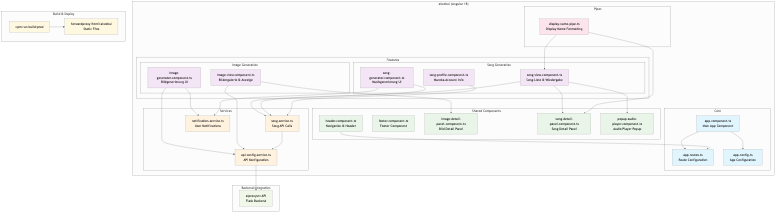
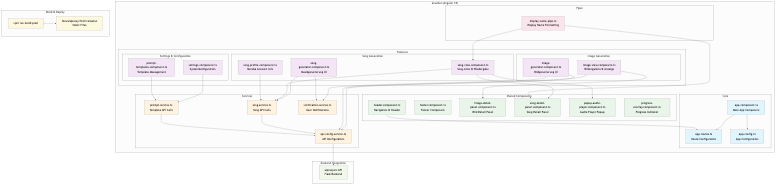
settings implementing

diff --git a/docs/README.md b/docs/README.md
@@ -30,8 +30,10 @@
    - [8.2 Image API](#82-image-api-apiv1image)
    - [8.3 Song API](#83-song-api-apiv1song)
    - [8.4 Task Management API](#84-task-management-api-apiv1songtask)
-   - [8.5 Redis Management API](#85-redis-management-api-apiv1redis)
-   - [8.6 AI Test Mock API](#86-ai-test-mock-api-aitestmock---developmenttesting)
+   - [8.5 Chat API](#85-chat-api-apiv1ollamachat)
+   - [8.6 Prompt Templates API](#86-prompt-templates-api-apiv1prompts)
+   - [8.7 Redis Management API](#87-redis-management-api-apiv1redis)
+   - [8.8 AI Test Mock API](#88-ai-test-mock-api-aitestmock---developmenttesting)
 9. [Deployment-Grafik](#9-deployment-grafik)
    - [9.1 Entwicklungs-Deployment](#91-entwicklungs-deployment)
    - [9.2 Produktions-Deployment](#92-produktions-deployment)
@@ -133,7 +135,7 @@ Das Mac KI-Service System ist eine persönliche KI-basierte Multimedia-Generieru
 - **Containerisiert**: Docker für konsistente Deployments
 
 ### 4.2 Technologie-Stack
-- **Frontend**: Angular 18 + TypeScript + Angular Material
+- **Frontend**: Angular 18.2.13 + TypeScript + Angular Material + SCSS
 - **Backend**: Python Flask + SQLAlchemy + Alembic
 - **Async Processing**: Celery + Redis
 - **Database**: PostgreSQL 15
@@ -165,7 +167,10 @@ Das Mac KI-Service System ist eine persönliche KI-basierte Multimedia-Generieru
   - `song-generator`: UI für Musikgenerierung
   - `song-view`: Anzeige generierter Songs
   - `song-profil`: Mureka Account-Informationen
-- **Services**: API-Integration, Konfiguration
+  - `settings`: Systemkonfiguration und Einstellungen
+  - `prompt-templates`: Template-Management für Prompts
+- **Services**: API-Integration, Konfiguration, Prompt-Management, Notifications
+- **Shared Components**: Header, Footer, Detail-Panels, Audio-Player, Progress-Overlay
 - **Build**: `npm run build:prod` → Deployment nach `forwardproxy/html`
 
 #### 5.2.2 aiproxysrv (Backend API)
@@ -174,6 +179,12 @@ Das Mac KI-Service System ist eine persönliche KI-basierte Multimedia-Generieru
   ```
   src/
   ├── api/           # Controllers & Routes
+  │   ├── app.py     # Flask App Factory
+  │   ├── image_routes.py    # Bildgenerierung API
+  │   ├── song_routes.py     # Musikgenerierung API
+  │   ├── chat_routes.py     # Chat API
+  │   ├── prompt_routes.py   # Prompt Templates API
+  │   └── redis_routes.py    # Redis Management API
   ├── db/            # Models & Database
   ├── celery_app/    # Async Processing
   ├── config/        # Konfiguration
@@ -437,26 +448,114 @@ GET /api/v1/song/task/queue-status
 }
 ```
 
-### 8.5 Redis Management API (`/api/v1/redis`)
+### 8.5 Chat API (`/api/v1/ollama/chat`)
 
-#### 8.5.1 Alle Celery Tasks auflisten
+#### 8.5.1 Chat-Generierung
+```http
+POST /api/v1/ollama/chat/generate
+Content-Type: application/json
+
+{
+    "model": "llama3.2:latest",
+    "prompt": "Erkläre mir künstliche Intelligenz",
+    "options": {
+        "temperature": 0.7,
+        "max_tokens": 500
+    }
+}
+```
+
+**Response:**
+```json
+{
+    "success": true,
+    "data": {
+        "response": "Künstliche Intelligenz (KI) ist...",
+        "model": "llama3.2:latest",
+        "prompt_eval_count": 25,
+        "eval_count": 150,
+        "eval_duration": 2500000000
+    }
+}
+```
+
+### 8.6 Prompt Templates API (`/api/v1/prompts`)
+
+#### 8.6.1 Alle Templates abrufen
+```http
+GET /api/v1/prompts
+```
+
+**Response:**
+```json
+{
+    "success": true,
+    "data": {
+        "images": {
+            "generate": {
+                "id": 1,
+                "category": "images",
+                "action": "generate",
+                "template": "Create an image of {subject} in {style} style",
+                "placeholders": ["subject", "style"],
+                "is_active": true
+            }
+        },
+        "songs": {
+            "generate": {
+                "id": 2,
+                "category": "songs",
+                "action": "generate",
+                "template": "Style: {style}\nLyrics: {lyrics}",
+                "placeholders": ["style", "lyrics"],
+                "is_active": true
+            }
+        }
+    }
+}
+```
+
+#### 8.6.2 Kategorie-Templates abrufen
+```http
+GET /api/v1/prompts/{category}
+```
+
+#### 8.6.3 Spezifisches Template abrufen
+```http
+GET /api/v1/prompts/{category}/{action}
+```
+
+#### 8.6.4 Template aktualisieren
+```http
+PUT /api/v1/prompts/{category}/{action}
+Content-Type: application/json
+
+{
+    "template": "Updated template with {placeholder}",
+    "is_active": true
+}
+```
+
+### 8.7 Redis Management API (`/api/v1/redis`)
+
+#### 8.7.1 Alle Celery Tasks auflisten
 ```http
 GET /api/v1/redis/list
 ```
 
-#### 8.5.2 Redis Keys auflisten
+#### 8.7.2 Redis Keys auflisten
 ```http
 GET /api/v1/redis/list/keys
 ```
 
-#### 8.5.3 Redis Key löschen
+#### 8.7.3 Redis Key löschen
 ```http
 DELETE /api/v1/redis/{task_id}
 ```
 
-### 8.6 AI Test Mock API (`aitestmock` - Development/Testing)
+### 8.8 AI Test Mock API (`aitestmock` - Development/Testing)
 
-#### 8.6.1 Mock Server Configuration
+#### 8.8.1 Mock Server Configuration
 ```http
 Base URL: http://localhost:8000 (Development)
 Content-Type: application/json
@@ -464,7 +563,7 @@ Content-Type: application/json
 
 **Zweck**: Ersetzt OpenAI und Mureka APIs in der Entwicklung um Kosten zu sparen
 
-#### 8.6.2 Mock Image Generation
+#### 8.8.2 Mock Image Generation
 ```http
 POST /v1/images/generations
 Content-Type: application/json
@@ -491,7 +590,7 @@ Content-Type: application/json
 }
 ```
 
-#### 8.6.3 Mock Song Generation
+#### 8.8.3 Mock Song Generation
 ```http
 POST /generate
 Content-Type: application/json
@@ -517,7 +616,7 @@ Content-Type: application/json
 }
 ```
 
-#### 8.6.4 Mock Song Status Query
+#### 8.8.4 Mock Song Status Query
 ```http
 GET /query/{job_id}
 ```
@@ -653,11 +752,15 @@ services:
 | **Task ID**    | Celery Task Identifier für Async Operations                                     |
 | **Job ID**     | Mureka Job Identifier für Song Generation                                       |
 | **Choice**     | Einzelne Musikvariante von Mureka (meist 2 pro Generation)                      |
+| **Ollama**     | Open-Source LLM Runtime für lokale Chat-Generierung                             |
+| **Chat API**   | Ollama-basierte Text-Generierung für Conversational AI                          |
+| **Prompt Templates** | Wiederverwendbare Prompt-Vorlagen mit Platzhaltern                        |
+| **Settings**   | Frontend-Komponente für Systemkonfiguration und Benutzereinstellungen           |
 | **aitestmock** | Mock-Server für OpenAI und Mureka APIs zur Kostensenkung in Development/Testing |
 
 ---
 
 *Dokument erstellt am: 01.09.2025*
-*Zuletzt aktualisiert: 19.09.2025*
-*Version: 1.1*
+*Zuletzt aktualisiert: 23.09.2025*
+*Version: 1.4*
 *Autor: Rob (rob.wellinger@gmail.com)*
